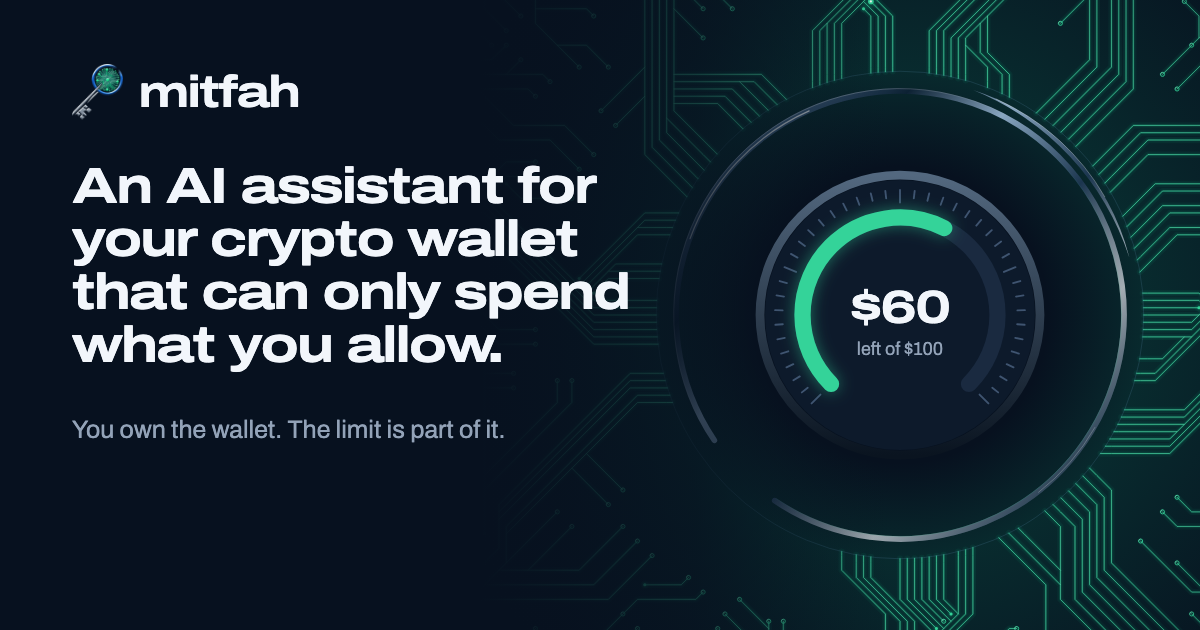
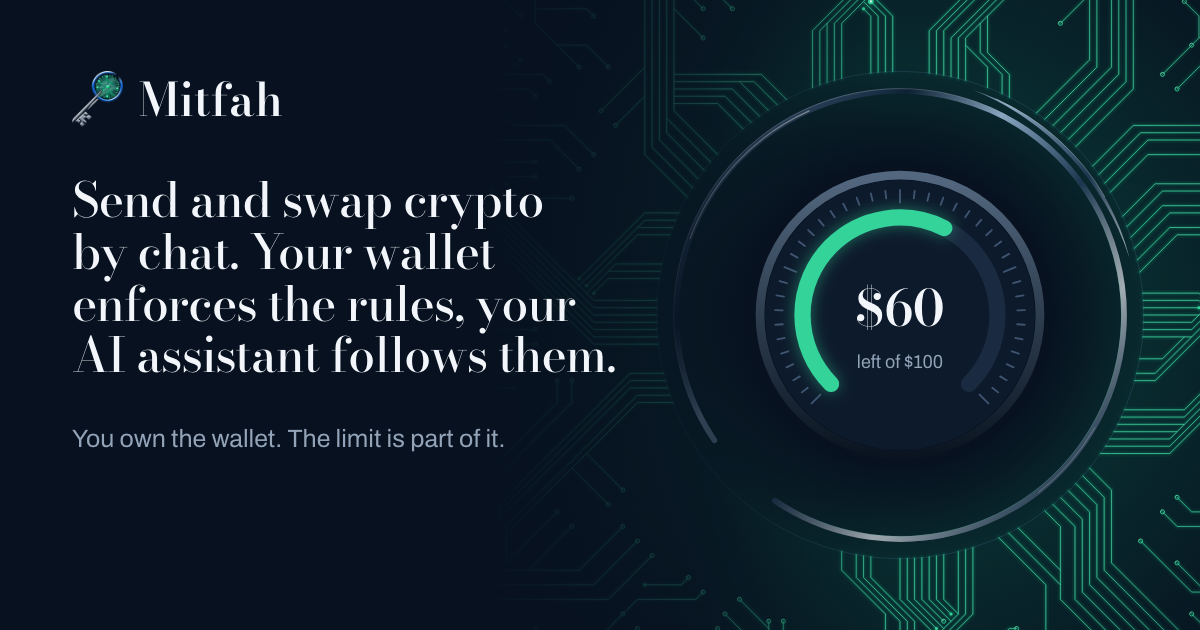
Set titles in Bodoni Moda, capitalise the Mitfah wordmark, and use the new tagline
- Type is now two faces: Bodoni Moda for the wordmark, h1/h2 titles and the dial's figures, held
  at its size-24 optical cut so the hairlines survive a 1x screen and dark mode; Archivo for text
  and small labels (h3 included). Archivo's stretched 125% width is gone. Both faces' Latin cuts
  are preloaded for the prerendered pages' first paint. (app.css's matching font changes land
  with the next commit, whose hunks share that file.)
- The wordmark reads "Mitfah", in the header and on the share image.
- New tagline everywhere the old one was: "Send and swap crypto by chat. Your wallet enforces the
  rules, your AI assistant follows them." (hero, meta description, share-image alt, manifest,
  llms.txt, WalletConnect metadata). The share image is re-rendered.

diff --git a/web/scripts/og/og.html b/web/scripts/og/og.html
@@ -7,10 +7,16 @@
     <style>
       @font-face {
         font-family: 'Archivo';
-        src: url('../../node_modules/@fontsource-variable/archivo/files/archivo-latin-wdth-normal.woff2') format('woff2');
+        src: url('../../node_modules/@fontsource-variable/archivo/files/archivo-latin-wght-normal.woff2') format('woff2');
         font-weight: 100 900;
-        font-stretch: 62% 125%;
       }
+      @font-face {
+        font-family: 'Bodoni Moda';
+        src: url('../../node_modules/@fontsource-variable/bodoni-moda/files/bodoni-moda-latin-opsz-normal.woff2') format('woff2');
+        font-weight: 400 900;
+      }
+      /* The site's two faces: Bodoni Moda (at its size-24 cut, as on the site) for the name, the headline and the dial. */
+      .brand span, h1, .dial-center strong { font-family: 'Bodoni Moda', serif; font-variation-settings: 'opsz' 24; }
       html, body { margin: 0; }
       .card {
         position: relative;
@@ -20,6 +26,7 @@
         overflow: hidden;
         color: #f2f6fb;
         font-family: 'Archivo', sans-serif;
+        -webkit-font-smoothing: antialiased;
         background: #07111f;
       }
       /* The ring sits round the dial at (900, 315); the circuit runs off to the edges. */
@@ -48,14 +55,14 @@
       }
       .brand { display: flex; align-items: center; gap: 16px; }
       .brand img { height: 56px; }
-      .brand span { font-stretch: 125%; font-weight: 700; font-size: 44px; letter-spacing: -0.03em; }
+      .brand span { font-weight: 600; font-size: 46px; letter-spacing: 0.01em; }
       h1 {
         margin: 0;
-        font-stretch: 125%;
-        font-weight: 700;
-        font-size: 50px;
-        line-height: 1.06;
-        letter-spacing: -0.03em;
+        font-weight: 500;
+        font-size: 48px;
+        line-height: 1.08;
+        text-wrap: balance;
+        letter-spacing: -0.02em;
       }
       p { margin: 0; font-size: 25px; line-height: 1.4; color: #93a3b8; }
       .dial { position: absolute; left: calc(900px - 150px); top: calc(315px - 150px); width: 300px; height: 300px; }
@@ -69,7 +76,7 @@
         justify-content: center;
         padding-top: 12px;
       }
-      .dial-center strong { font-stretch: 125%; font-weight: 700; font-size: 46px; letter-spacing: -0.02em; }
+      .dial-center strong { font-weight: 560; font-size: 50px; letter-spacing: -0.005em; }
       .dial-center small { margin-top: 6px; font-size: 18px; color: #93a3b8; }
     </style>
   </head>
@@ -78,8 +85,8 @@
       <div class="wallpaper"></div>
       <div class="shade"></div>
       <div class="words">
-        <div class="brand"><img src="../../public/brand/mark-dark.png" alt="" /><span>mitfah</span></div>
-        <h1>An AI assistant for your crypto wallet that can only spend what you allow.</h1>
+        <div class="brand"><img src="../../public/brand/mark-dark.png" alt="" /><span>Mitfah</span></div>
+        <h1>Send and swap crypto by chat. Your wallet enforces the rules, your AI assistant follows them.</h1>
         <p>You own the wallet. The limit is part of it.</p>
       </div>
       <div class="dial">

diff --git a/web/vite.config.ts b/web/vite.config.ts
@@ -5,9 +5,12 @@ import { loadEnv, type Plugin } from 'vite'
 import { defineConfig } from 'vitest/config'
 
 /**
- * Preloads the Latin cut of Archivo, the headline font, so a prerendered page's first paint is
- * already in it. Found late, the font swaps in after that paint and the headline reflows.
+ * Preloads the Latin cuts of the two faces on the first screen, Bodoni Moda (the headline) and
+ * Archivo (the text), so a prerendered page's first paint is already in them. Found late, a font
+ * swaps in after that paint and the headline reflows.
  */
+const FIRST_PAINT_FONTS = [/bodoni-moda-latin-opsz-normal-.*\.woff2$/, /archivo-latin-wght-normal-.*\.woff2$/]
+
 function preloadHeadlineFont(): Plugin {
   return {
     name: 'mitfah:preload-headline-font',
@@ -15,18 +18,21 @@ function preloadHeadlineFont(): Plugin {
     transformIndexHtml: {
       order: 'post',
       handler(_html, ctx) {
-        const font = Object.keys(ctx.bundle ?? {}).find(file => /archivo-latin-wdth-normal-.*\.woff2$/.test(file))
-        if (!font) {
-          this.warn('No Archivo Latin font in the bundle, so none is preloaded. Update preloadHeadlineFont().')
-          return []
-        }
-        return [
-          {
-            tag: 'link',
-            attrs: { rel: 'preload', href: `/${font}`, as: 'font', type: 'font/woff2', crossorigin: '' },
-            injectTo: 'head',
-          },
-        ]
+        const files = Object.keys(ctx.bundle ?? {})
+        return FIRST_PAINT_FONTS.flatMap(pattern => {
+          const font = files.find(file => pattern.test(file))
+          if (!font) {
+            this.warn(`No font matching ${pattern} in the bundle, so it isn't preloaded. Update FIRST_PAINT_FONTS.`)
+            return []
+          }
+          return [
+            {
+              tag: 'link',
+              attrs: { rel: 'preload', href: `/${font}`, as: 'font', type: 'font/woff2', crossorigin: '' },
+              injectTo: 'head' as const,
+            },
+          ]
+        })
       },
     },
   }

diff --git a/web/src/index.css b/web/src/index.css
@@ -16,22 +16,33 @@ body {
   font-size: 15px;
   line-height: 1.55;
   -webkit-font-smoothing: antialiased;
+  /*
+   * Bodoni Moda's display cut (optical size 96) has hairlines that break up on a 1x screen and on
+   * dark; the size-24 cut keeps them whole at every heading size. Only Bodoni has this axis, so the
+   * other faces ignore it.
+   */
+  font-variation-settings: 'opsz' 24;
 }
 
 /*
- * Headings are the nameplate: Archivo stretched wide, set tight. The scale is the classic one
+ * Titles are set in Bodoni Moda at a medium weight: its optical size thickens the hairlines as the
+ * size drops, so the same face holds from the 60px headline to an 18px card title. h3 is a label,
+ * not a title, so it stays in the text face. The scale is the classic one
  * (14 · 18 · 24 · 36 · 48 · 60), so sizes relate by ear rather than by increment.
  */
 h1,
 h2,
 h3 {
-  font-family: var(--mf-font-heading);
-  font-stretch: var(--mf-wide);
-  font-weight: 640;
   color: var(--rs-text-heading);
-  letter-spacing: -0.015em;
   line-height: 1.15;
   text-wrap: balance;
+}
+
+h1,
+h2 {
+  font-family: var(--mf-font-heading);
+  font-weight: 540;
+  letter-spacing: -0.005em;
 }
 
 h3 {

diff --git a/web/src/pages/HomePage.tsx b/web/src/pages/HomePage.tsx
@@ -92,7 +92,7 @@ const FAQ = [
 ]
 
 const DESCRIPTION =
-  'An AI assistant for your crypto wallet that can only spend what you allow. You own the smart contract wallet, set a daily dollar limit and can pause it any time.'
+  'Send and swap crypto by chat. Your wallet enforces the rules, your AI assistant follows them. You own the smart contract wallet, set a daily dollar limit and can pause it any time.'
 
 /** What the site is and who publishes it, for search engines (schema.org JSON-LD). */
 const STRUCTURED_DATA = JSON.stringify({
@@ -146,7 +146,7 @@ export function HomePage() {
       <Wallpaper place="hero" />
 
       <section className="mf-hero">
-        <h1>An AI assistant for your crypto wallet that can only spend what you allow.</h1>
+        <h1>Send and swap crypto by chat. Your wallet enforces the rules, your AI assistant follows them.</h1>
         <p className="mf-hero-lede">
           You own the wallet and set a daily dollar limit. The wallet itself refuses anything over it, whatever the
           assistant is told.

diff --git a/web/src/styles/tokens.css b/web/src/styles/tokens.css
@@ -33,12 +33,12 @@
   --mf-tick: #9aa8b9;
 
   /*
-   * One family at two widths: Archivo stretched to 125% is the engraved nameplate (headings, the
-   * dial's figures), at 100% it is the text. The monospace face is only for addresses and hashes.
+   * Two faces. Bodoni Moda is the dial's lettering, as on a watch face: the wordmark, titles and the
+   * figures on the dial. Archivo is the text and every small label. The monospace face is only for
+   * addresses and hashes.
    */
   --mf-font: 'Archivo Variable', system-ui, -apple-system, 'Segoe UI', sans-serif;
-  --mf-font-heading: var(--mf-font);
-  --mf-wide: 125%;
+  --mf-font-heading: 'Bodoni Moda Variable', 'Bodoni 72', Didot, Georgia, serif;
   --mf-radius-plate: 14px;
   --mf-radius-control: 8px;
   --mf-radius-card: var(--mf-radius-plate);

diff --git a/web/index.html b/web/index.html
@@ -14,7 +14,7 @@
     <meta property="og:image" content="https://mitfah.com/og.png" />
     <meta property="og:image:width" content="1200" />
     <meta property="og:image:height" content="630" />
-    <meta property="og:image:alt" content="Mitfah: an AI assistant for your crypto wallet that can only spend what you allow." />
+    <meta property="og:image:alt" content="Mitfah: Send and swap crypto by chat. Your wallet enforces the rules, your AI assistant follows them." />
     <meta name="twitter:card" content="summary_large_image" />
     <meta name="theme-color" content="#F6F8FB" media="(prefers-color-scheme: light)" />
     <meta name="theme-color" content="#07111F" media="(prefers-color-scheme: dark)" />

diff --git a/web/src/components/brand/Logo.tsx b/web/src/components/brand/Logo.tsx
@@ -4,7 +4,7 @@ import { useTheme } from '../../theme/useTheme'
 const MARK_RATIO = 116 / 128
 
 interface LogoProps {
-  /** `mark` is the key alone; `lockup` adds the "mitfah" wordmark. */
+  /** `mark` is the key alone; `lockup` adds the "Mitfah" wordmark. */
   variant?: 'mark' | 'lockup'
   /** Mark height in px. */
   size?: number
@@ -35,7 +35,7 @@ export function Logo({ variant = 'lockup', size = 28, tone = 'auto', className }
       {mark}
       {variant === 'lockup' && (
         <span className="mf-logo-word" style={{ fontSize: Math.round(size * 0.82) }}>
-          mitfah
+          Mitfah
         </span>
       )}
     </span>

diff --git a/web/src/main.tsx b/web/src/main.tsx
@@ -1,7 +1,8 @@
 import { StrictMode } from 'react'
 import { createRoot } from 'react-dom/client'
-// Archivo with its width axis: the same family is the text at 100% and the headings at 125%.
-import '@fontsource-variable/archivo/wdth.css'
+// Archivo is the text; Bodoni Moda, with its optical-size axis, is the titles and the dial's figures.
+import '@fontsource-variable/archivo'
+import '@fontsource-variable/bodoni-moda/opsz.css'
 import '@fontsource-variable/jetbrains-mono'
 // Order matters: tokens.css overrides RSuite's variables using the same selectors.
 import 'rsuite/dist/rsuite.min.css'

diff --git a/web/e2e/responsive.spec.ts b/web/e2e/responsive.spec.ts
@@ -17,7 +17,7 @@ const OWNER = '0x70997970C51812dc3A010C7d01b50e0d17dc79C8'
 const CHAINS = [{ chain_id: SEPOLIA, name: 'sepolia-fork', native_ticker: 'ETH', fork: true }]
 
 const PAGES = [
-  { path: '/', heading: 'An AI assistant for your crypto wallet that can only spend what you allow.' },
+  { path: '/', heading: 'Send and swap crypto by chat. Your wallet enforces the rules, your AI assistant follows them.' },
   { path: '/dashboard', heading: 'Dashboard' },
   { path: '/assistant', heading: 'Assistant' },
   { path: '/contacts', heading: 'Contacts' },

diff --git a/web/e2e/landing.spec.ts b/web/e2e/landing.spec.ts
@@ -27,7 +27,7 @@ async function mockApi(page: Page) {
 test('home page', async ({ page }, testInfo) => {
   await mockApi(page)
   await page.goto('/')
-  await expect(page.getByRole('heading', { level: 1 })).toContainText('only spend what you allow')
+  await expect(page.getByRole('heading', { level: 1 })).toContainText('Send and swap crypto by chat')
   await expect(page.getByRole('region', { name: 'Networks' }).getByRole('listitem')).toHaveCount(CHAINS.length)
   await expectTheme(page, testInfo)
 

diff --git a/web/src/wallet/config.ts b/web/src/wallet/config.ts
@@ -28,7 +28,7 @@ export const wagmiConfig = createConfig({
             showQrModal: true,
             metadata: {
               name: 'Mitfah',
-              description: 'An AI assistant for your crypto wallet that can only spend what you allow.',
+              description: 'Send and swap crypto by chat. Your wallet enforces the rules, your AI assistant follows them.',
               url: window.location.origin,
               icons: [`${window.location.origin}/icon-192.png`],
             },
